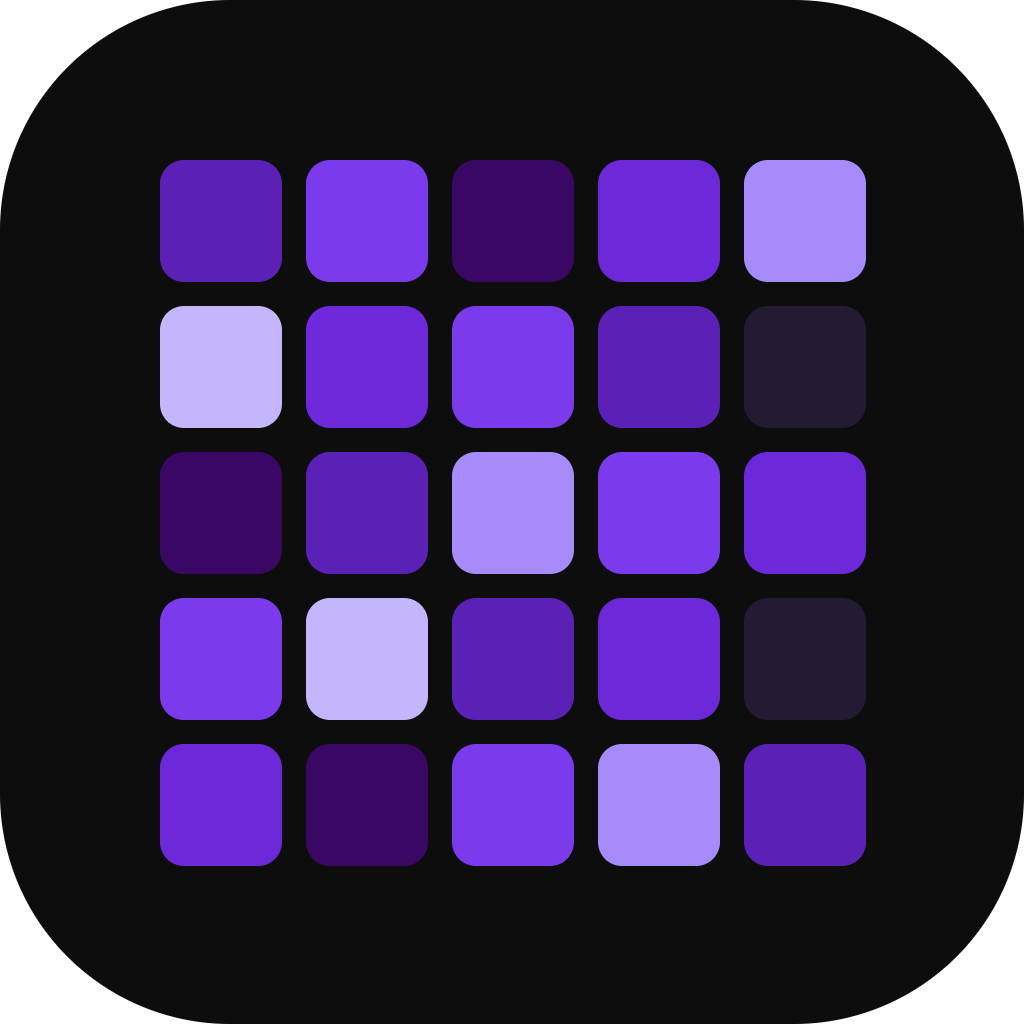
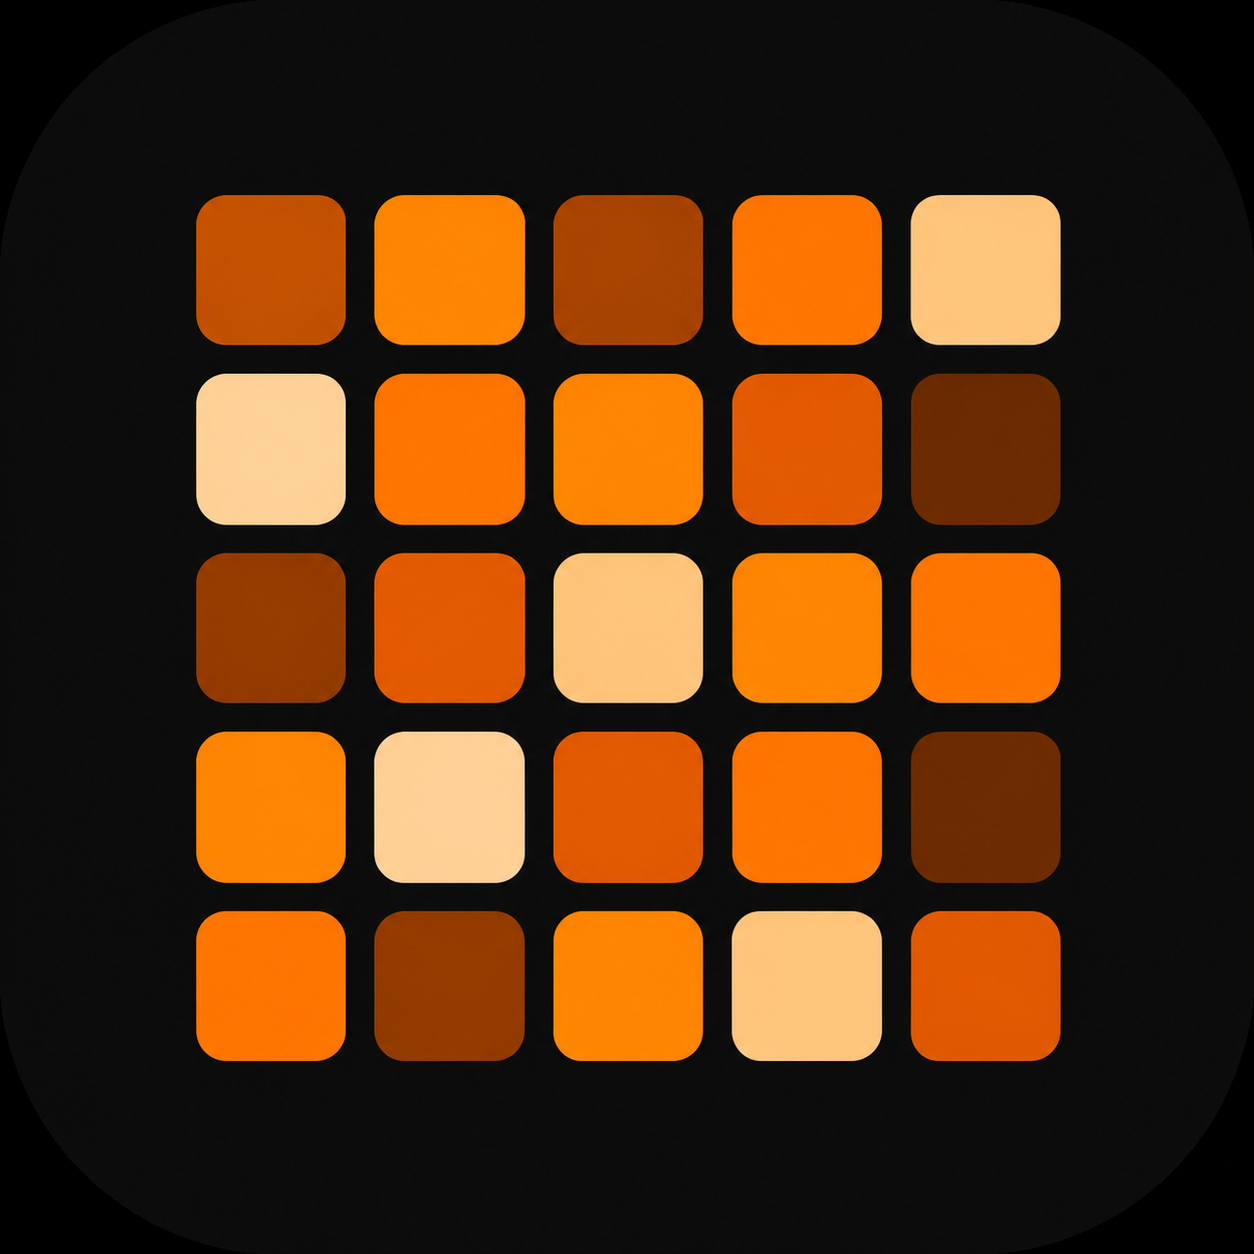
feat: add orange onboarding landing experience

diff --git a/lib/features/onboarding/pages/onboarding_page.dart b/lib/features/onboarding/pages/onboarding_page.dart
@@ -261,58 +261,167 @@ class _Welcome extends StatelessWidget {
   @override
   Widget build(BuildContext context) {
     final l10n = context.l10n;
-    return _Page(
-      children: [
-        Align(
-          alignment: Alignment.centerLeft,
-          child: DecoratedBox(
-            decoration: BoxDecoration(
-              borderRadius: BorderRadius.circular(26),
-              boxShadow: [
-                BoxShadow(
-                  color: accent.withValues(alpha: 0.32),
-                  blurRadius: 36,
-                  offset: const Offset(0, 14),
+    final promises = _Promises(
+      rows: [
+        (LucideIcons.gift, l10n.onb_free_title, l10n.onb_free_body),
+        (LucideIcons.shieldCheck, l10n.onb_private_title, l10n.onb_private_body),
+        (LucideIcons.hardDriveDownload, l10n.onb_yours_title, l10n.onb_yours_body),
+      ],
+    );
+
+    return LayoutBuilder(
+      builder: (context, constraints) {
+        final wide = constraints.maxWidth >= 900;
+        final intro = Column(
+          crossAxisAlignment: CrossAxisAlignment.start,
+          children: [
+            DecoratedBox(
+              decoration: BoxDecoration(
+                borderRadius: BorderRadius.circular(26),
+                boxShadow: [
+                  BoxShadow(
+                    color: accent.withValues(alpha: 0.32),
+                    blurRadius: 36,
+                    offset: const Offset(0, 14),
+                  ),
+                ],
+              ),
+              child: ClipRRect(
+                borderRadius: BorderRadius.circular(26),
+                child: Image.asset('assets/icon.png', width: 92, height: 92),
+              ),
+            ),
+            const SizedBox(height: 28),
+            Text(l10n.onb_kicker.toUpperCase(), style: _kicker(context)),
+            const SizedBox(height: 6),
+            Text(
+              'Streak',
+              style: TextStyle(
+                fontSize: wide ? 64 : 46,
+                height: 1,
+                fontWeight: FontWeight.w800,
+                letterSpacing: -1.8,
+                color: context.colors.onSurface,
+              ),
+            ),
+            const SizedBox(height: 14),
+            ConstrainedBox(
+              constraints: const BoxConstraints(maxWidth: 520),
+              child: Text(
+                l10n.onb_blurb,
+                style: TextStyle(
+                  fontSize: 16,
+                  height: 1.55,
+                  color: context.tokens.muted,
                 ),
+              ),
+            ),
+          ],
+        );
+
+        if (!wide) {
+          return _Page(children: [intro, const SizedBox(height: 26), promises]);
+        }
+
+        return SingleChildScrollView(
+          padding: const EdgeInsets.fromLTRB(56, 24, 56, 20),
+          child: Center(
+            child: ConstrainedBox(
+              constraints: const BoxConstraints(maxWidth: 1180),
+              child: Row(
+                crossAxisAlignment: CrossAxisAlignment.center,
+                children: [
+                  Expanded(flex: 5, child: Entrance(index: 0, child: intro)),
+                  const SizedBox(width: 72),
+                  Expanded(
+                    flex: 4,
+                    child: Entrance(
+                      index: 1,
+                      child: Column(
+                        children: [
+                          _WelcomePreview(accent: accent),
+                          const SizedBox(height: 18),
+                          promises,
+                        ],
+                      ),
+                    ),
+                  ),
+                ],
+              ),
+            ),
+          ),
+        );
+      },
+    );
+  }
+}
+
+class _WelcomePreview extends StatelessWidget {
+  const _WelcomePreview({required this.accent});
+
+  final Color accent;
+
+  @override
+  Widget build(BuildContext context) {
+    return Container(
+      padding: const EdgeInsets.fromLTRB(24, 22, 24, 24),
+      decoration: BoxDecoration(
+        color: context.colors.surfaceContainerHighest.withValues(alpha: 0.72),
+        borderRadius: BorderRadius.circular(28),
+        border: Border.all(color: accent.withValues(alpha: 0.18)),
+      ),
+      child: Column(
+        crossAxisAlignment: CrossAxisAlignment.start,
+        children: [
+          Row(
+            children: [
+              Icon(LucideIcons.flame, color: accent, size: 20),
+              const SizedBox(width: 8),
+              Text(
+                'Your rhythm, made visible',
+                style: TextStyle(
+                  fontSize: 15,
+                  fontWeight: FontWeight.w700,
+                  color: context.colors.onSurface,
+                ),
+              ),
+            ],
+          ),
+          const SizedBox(height: 22),
+          SizedBox(
+            height: 116,
+            child: Row(
+              crossAxisAlignment: CrossAxisAlignment.end,
+              children: [
+                for (final (index, factor) in [0.34, 0.55, 0.46, 0.72, 0.64, 0.9, 1.0].indexed) ...[
+                  if (index > 0) const SizedBox(width: 9),
+                  Expanded(
+                    child: FractionallySizedBox(
+                      heightFactor: factor,
+                      alignment: Alignment.bottomCenter,
+                      child: DecoratedBox(
+                        decoration: BoxDecoration(
+                          color: accent.withValues(alpha: 0.22 + index * 0.1),
+                          borderRadius: BorderRadius.circular(8),
+                        ),
+                      ),
+                    ),
+                  ),
+                ],
               ],
             ),
-            child: ClipRRect(
-              borderRadius: BorderRadius.circular(26),
-              child: Image.asset('assets/icon.png', width: 92, height: 92),
+          ),
+          const SizedBox(height: 18),
+          Text(
+            'Small daily check-ins compound into something you can see.',
+            style: TextStyle(
+              fontSize: 13,
+              height: 1.45,
+              color: context.tokens.muted,
             ),
           ),
-        ),
-        const SizedBox(height: 28),
-        Text(l10n.onb_kicker.toUpperCase(), style: _kicker(context)),
-        const SizedBox(height: 6),
-        Text(
-          'Streak',
-          style: TextStyle(
-            fontSize: 46,
-            height: 1,
-            fontWeight: FontWeight.w800,
-            letterSpacing: -1.2,
-            color: context.colors.onSurface,
-          ),
-        ),
-        const SizedBox(height: 14),
-        Text(
-          l10n.onb_blurb,
-          style: TextStyle(
-            fontSize: 15.5,
-            height: 1.5,
-            color: context.tokens.muted,
-          ),
-        ),
-        const SizedBox(height: 26),
-        _Promises(
-          rows: [
-            (LucideIcons.gift, l10n.onb_free_title, l10n.onb_free_body),
-            (LucideIcons.shieldCheck, l10n.onb_private_title, l10n.onb_private_body),
-            (LucideIcons.hardDriveDownload, l10n.onb_yours_title, l10n.onb_yours_body),
-          ],
-        ),
-      ],
+        ],
+      ),
     );
   }
 }

diff --git a/lib/app/theme/app_palette.dart b/lib/app/theme/app_palette.dart
@@ -3,9 +3,9 @@ import 'package:flutter/material.dart';
 class AppPalette {
   const AppPalette._();
 
-  static const brand = Color(0xFF7C3AED);
-  static const brandDark = Color(0xFF5B21B6);
-  static const brandSoft = Color(0xFFA78BFA);
+  static const brand = Color(0xFFF97316);
+  static const brandDark = Color(0xFFC2410C);
+  static const brandSoft = Color(0xFFFDBA74);
 
   static const success = Color(0xFF22C55E);
   static const warning = Color(0xFFF59E0B);
